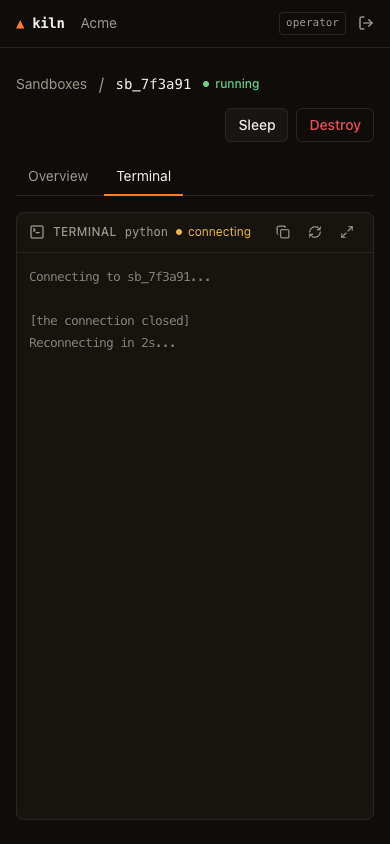
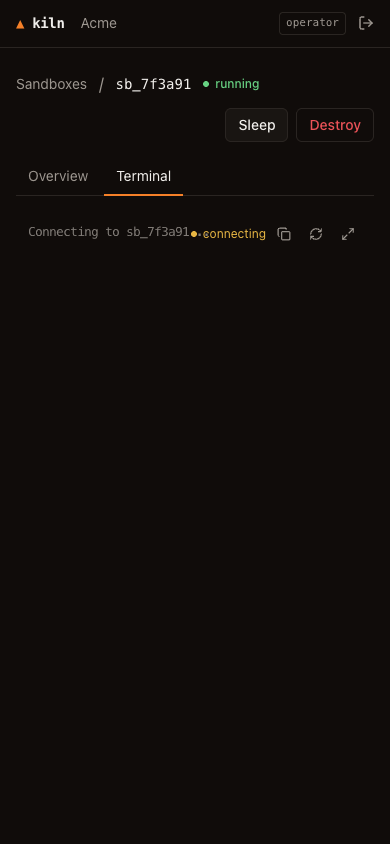
gateway: the terminal is one surface with the page
Northflank's own documentation screenshot settles how this should look.
Their shell bleeds onto the dashboard's surface: no border, no box, no bar
above it. The only chrome is a status chip at the top right, and the
connection state is written into the buffer.

So the bordered panel goes. The shell draws on the app ground, exactly
#100c0a, so no rectangle shows where it ends. The status word and the
three controls float over the top right corner and cost no height. The
disconnected banner floats too.

Fly Sprites has no public screenshot of a browser terminal, and its
console is the CLI, so there was nothing to take from it.

Claude-Session: https://claude.ai/code/session_01AgVc56qAYDqsTBZitTGhjv

diff --git a/web/src/features/sandboxes/Terminal.tsx b/web/src/features/sandboxes/Terminal.tsx
@@ -2,7 +2,7 @@ import { useCallback, useEffect, useRef, useState } from "react";
 import { Terminal as Xterm } from "@xterm/xterm";
 import { FitAddon } from "@xterm/addon-fit";
 import { WebglAddon } from "@xterm/addon-webgl";
-import { Copy, Maximize2, Minimize2, RefreshCw, SquareTerminal } from "lucide-react";
+import { Copy, Maximize2, Minimize2, RefreshCw } from "lucide-react";
 import { Link } from "react-router-dom";
 
 import { cn } from "@/lib/cn";
@@ -26,11 +26,9 @@ const BACKOFF_MS = [500, 1000, 2000, 4000];
  */
 export function SandboxTerminal({
   id,
-  template,
   full,
 }: {
   id: string;
-  template?: string;
   /** True on the standalone page, where the control returns to the tab. */
   full?: boolean;
 }) {
@@ -64,7 +62,9 @@ export function SandboxTerminal({
       // A build log outruns a smaller buffer in seconds.
       scrollback: 10_000,
       theme: {
-        background: "#17140f",
+        // Exactly the app ground, so the shell is one surface with the
+        // page and shows no rectangle where it ends.
+        background: "#100c0a",
         foreground: "#efeae2",
         cursor: "#f08a3c",
         selectionBackground: "#ffffff30",
@@ -172,13 +172,11 @@ export function SandboxTerminal({
   useEffect(refit, [phase, refit]);
 
   return (
-    <section className="flex h-full min-h-0 flex-col overflow-hidden rounded-lg border border-edge bg-[#17140f]">
-      <header className="flex h-10 shrink-0 items-center gap-2 border-b border-edge px-3">
-        <SquareTerminal className="size-4 text-muted" aria-hidden />
-        <span className="text-xs font-medium tracking-wide text-muted uppercase">Terminal</span>
-        {template ? <span className="font-mono text-xs text-muted">{template}</span> : null}
+    <section className="relative flex h-full min-h-0 flex-col bg-ground">
+      {/* The controls float over the shell rather than sitting in a bar above
+          it: a bar costs a row of the screen and the shell is the point. */}
+      <div className="absolute top-2 right-3 z-10 flex items-center gap-1">
         <Status phase={phase} />
-        <div className="ml-auto flex items-center gap-1">
           <IconButton
             label="Copy the output"
             onClick={() => {
@@ -208,11 +206,10 @@ export function SandboxTerminal({
           >
             {full ? <Minimize2 className="size-3.5" /> : <Maximize2 className="size-3.5" />}
           </Link>
-        </div>
-      </header>
+      </div>
 
       {phase === "disconnected" ? (
-        <div className="flex shrink-0 items-center gap-3 border-b border-edge bg-raised px-3 py-2">
+        <div className="absolute top-11 right-3 z-10 flex items-center gap-3 rounded-md border border-edge bg-raised px-3 py-2">
           <span className="text-xs text-muted">Disconnected: {reason}</span>
           <button
             onClick={() => {
@@ -226,7 +223,7 @@ export function SandboxTerminal({
         </div>
       ) : null}
 
-      <div ref={host} className="min-h-0 flex-1 overflow-hidden p-3" />
+      <div ref={host} className="min-h-0 flex-1 overflow-hidden px-3 pt-2" />
     </section>
   );
 }

diff --git a/web/src/features/sandboxes/TerminalPage.tsx b/web/src/features/sandboxes/TerminalPage.tsx
@@ -1,7 +1,5 @@
 import { useParams } from "react-router-dom";
-import { useQuery } from "@tanstack/react-query";
 
-import { getSandbox } from "@/api";
 import { SandboxTerminal } from "./Terminal";
 
 /**
@@ -11,17 +9,9 @@ import { SandboxTerminal } from "./Terminal";
  */
 export function TerminalPage() {
   const { id = "" } = useParams();
-  const sandbox = useQuery({
-    queryKey: ["sandbox", id],
-    queryFn: async () => (await getSandbox({ path: { id }, throwOnError: true })).data,
-  });
   return (
-    <div className="h-screen p-3">
-      <SandboxTerminal
-        id={id}
-        template={(sandbox.data as { template?: string } | undefined)?.template}
-        full
-      />
+    <div className="h-screen">
+      <SandboxTerminal id={id} full />
     </div>
   );
 }

diff --git a/web/src/features/sandboxes/SandboxPage.tsx b/web/src/features/sandboxes/SandboxPage.tsx
@@ -120,7 +120,7 @@ function Tab({ to, end, children }: { to: string; end?: boolean; children: React
 
 /** The terminal tab. It fills the frame and scrolls nothing around it. */
 export function SandboxTerminalTab() {
-  const { id, sandbox, canWrite } = useOutletContext<TabContext>();
+  const { id, canWrite } = useOutletContext<TabContext>();
   const canExec = useCan("sandbox:exec");
   if (!canExec || !canWrite) {
     return (
@@ -129,7 +129,7 @@ export function SandboxTerminalTab() {
       </Panel>
     );
   }
-  return <SandboxTerminal id={id} template={sandbox?.template} />;
+  return <SandboxTerminal id={id} />;
 }
 
 /** The overview tab: the published ports and what has happened. */
